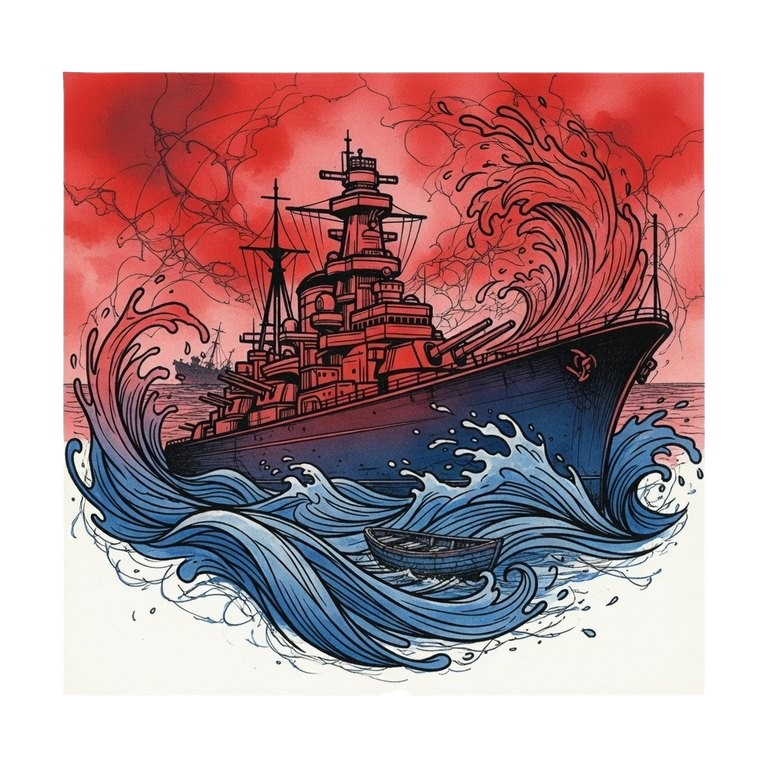
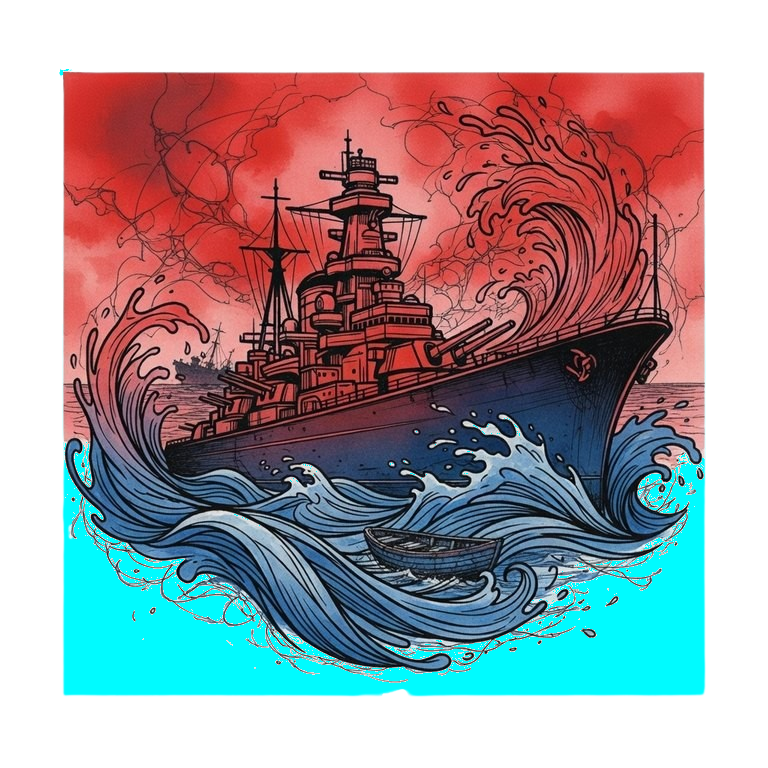
Landing page: shift brand accent from chia-green to aqua
Owner changed the brand colour toward aqua. Retarget the two accent
CSS variables (used by links, the primary CTA, the Provably-Fair
highlights, and the VERIFIED text):
  --chia        #2fa86a -> #12bcc6   (CTA fill; dark text stays legible)
  --chia-bright #52c47e -> #38dfe8   (links / hovers; bright on dark)
Descent gradient, gold ornament, and the NFT art palette are untouched.
Also stores the owner's surface-removebg.png (white bg swapped to aqua
via the Pixel Color Swapper); not yet referenced by the page.

Changed region(s): [[0.0625, 0.5938, 0.9375, 0.9062]]

diff --git a/site/style.css b/site/style.css
@@ -18,8 +18,9 @@
   --ember: #d0542a;
   --gold: #d99a3c;
   --pale-gold: #ecc873;
-  --chia: #2fa86a;
-  --chia-bright: #52c47e;
+  /* brand accent: shifted from chia-green to aqua (2026-07-11) */
+  --chia: #12bcc6;
+  --chia-bright: #38dfe8;
   --violet: #4a2a6e;
   --amethyst: #7a4aa8;
   --bone: #f4f4f0;